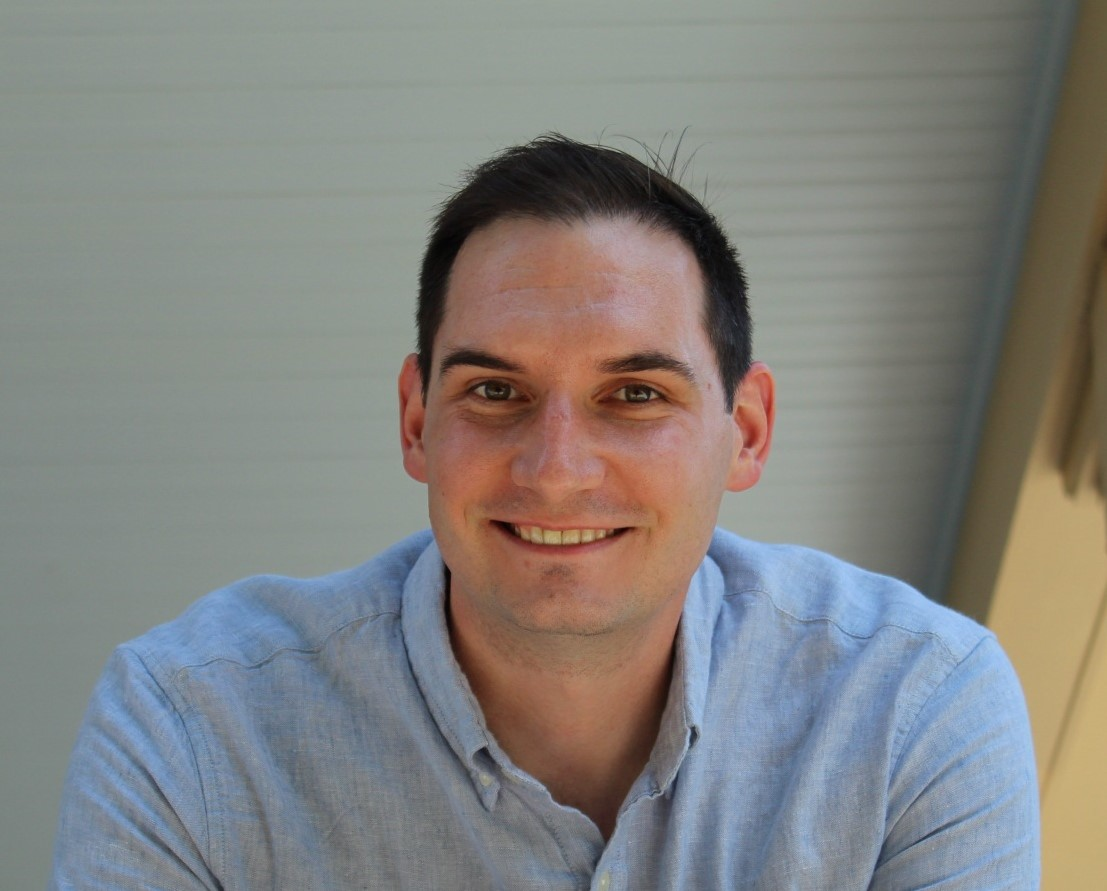
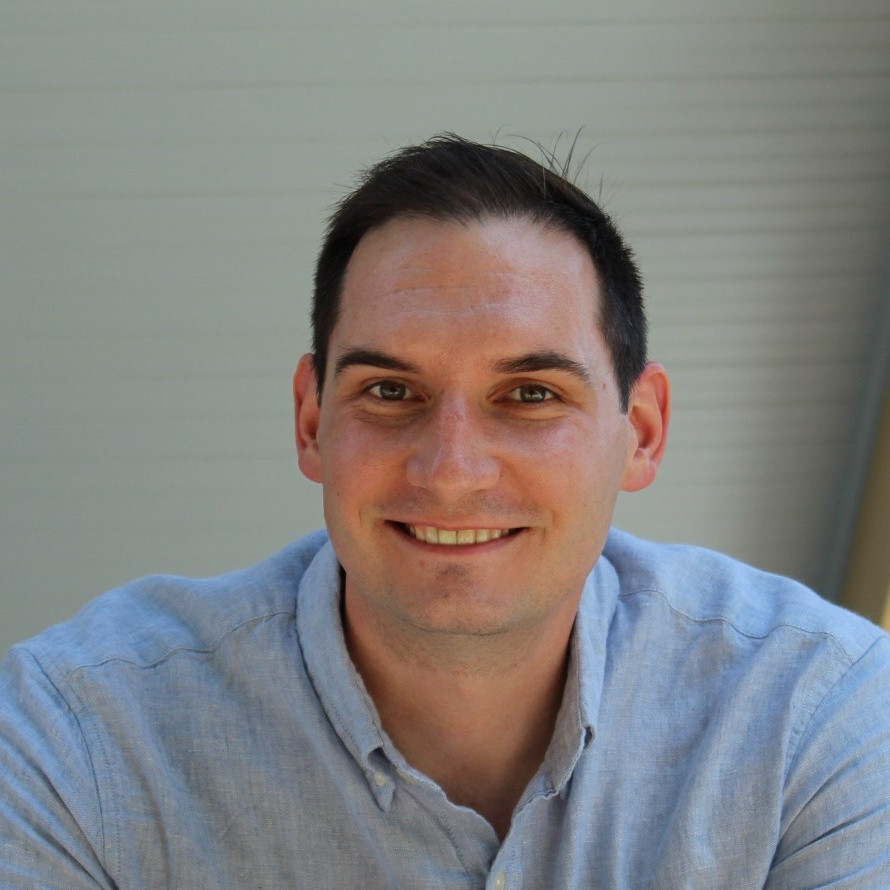
adjust portrait and headline layout

diff --git a/style.css b/style.css
@@ -14,37 +14,56 @@ body {
 
 .intro {
   background-color: var(--color3);
-  border-color: var(--color3);
-  border-width: 5px;
-  border-radius: 30px;
+  position:absolute;
+  top:0;
+  left:0;
+  width:100%;
+  height:100%;
   min-width: var(--min-width);
-  height:100vw;
-  max-height: 100vh;
-  padding-top:30vh;
-
+  display:flex;
+  z-index: 0;
 }
 
+.left-block {
+  margin:auto;
+  text-align: center;
+}
 
-.social-media a {
-  text-decoration: none;
-  color: var(--color5);
-  
+.headline {
+  background-color: #dda15e;
+  font-variant: small-caps;
 }
 
 #sm-div {
   color:var(--color5);
-  height: inherit;
-  width: inherit;
-  height:40px;
-  min-width: var(--min-width);
   outline: var(--color4);
   outline-style: dashed;
-  border-width: 3px;;
+  border-width: 3px;
+  margin:auto;
 }
 
+.social-media a {
+  text-decoration: none;
+  color: var(--color5);
+}
+
+.circle-portrait {
+  border-radius: 50%;
+  border-top-right-radius: 20%;
+  margin:auto;
+  z-index:20;
+}
+.right-stripe {
+  background-color: var(--color4);
+  height:100%;
+  width:5%;
+  position:absolute;
+  right:15%;
+  top:0;
+  z-index: 1;
+}
 .nav {
   color: var(--colortext);
   position: -webkit-sticky; /* Safari */
   position:sticky;
-  top:0;
 }

diff --git a/index.html b/index.html
@@ -10,12 +10,19 @@
     <body>
 
         <div class="intro">
-            <!--<img src="assets/portrait.JPG" alt="Portrait photograph of Patrick Larson">-->            
-            <div id="sm-div" class="social-media">
-                <a href="" id="linkedin" class="social-media">#TODOlinkedin</a>
-                <a id="github" class="social-media">#TODOGitHub</a>
-                <a id="3dprints" class="social-media">#TODO3D Prints</a>
+            <div class="left-block">
+                <p class="headline">Software<br>Developer</p>
+                <div id="sm-div" class="social-media">
+                    <a href="" id="linkedin" class="social-media">#TODOlinkedin</a>
+                    <a id="github" class="social-media">#TODOGitHub</a>
+                    <a id="3dprints" class="social-media">#TODO3D Prints</a>
+                </div>
             </div>
+            <img class="circle-portrait" 
+                src="assets/portrait.JPG" 
+                alt="Portrait photograph of Patrick Larson"
+                width="400" height="400"/>
+                <div class="right-stripe"></div>
         </div>
 
         <div class="nav">
